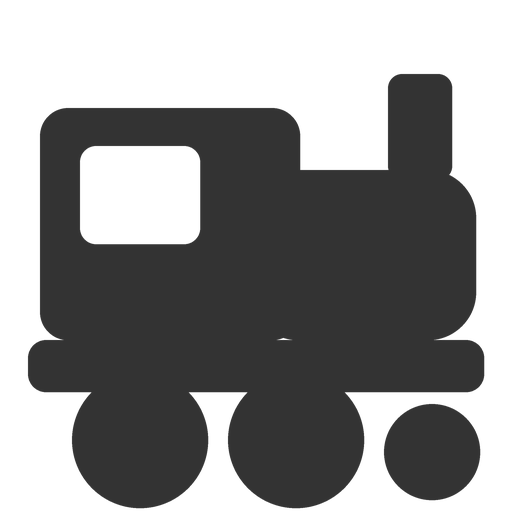
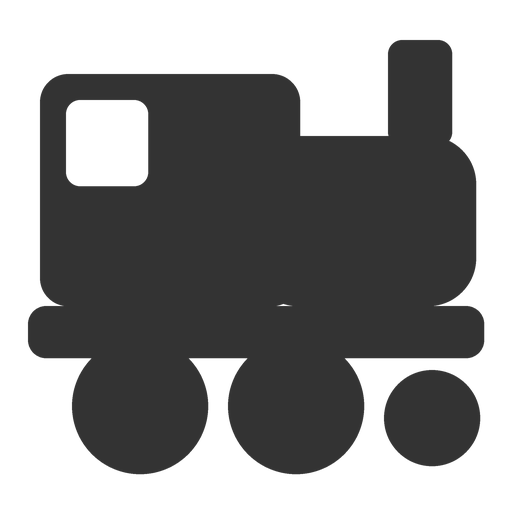
Three of the seven were not actually centred
Checking my own work against Adam's note rather than assuming it was answered: he said the
log was "not symmetrical", and measuring the ink of all seven found the same fault in three
others he had not mentioned.

  play         bounding box sat 140 from the left and 60 from the right
  route        74 above and 34 below, 58 left and 26 right
  locomotive   74 above and 4 below - the wheels were all but touching the canvas edge, so
               beside its neighbours the whole icon read as sitting low

All three are even now, except the play triangle, which is deliberately 110/90: a triangle
carries its weight behind the point, so one whose box is exactly centred reads as leaning
left.  Stats stays 96/56 - those are bars growing off a baseline, and Adam said stats
looks good.

The log was already exactly right, 59 above the first line and 59 below the last.

The cab window also moved hard left and shrank.  It had been overlapping the box the page
number is drawn in, which is a hole under a white digit - the one thing the locomotive was
redrawn to stop.

diff --git a/tools/tab-icons.py b/tools/tab-icons.py
@@ -88,17 +88,20 @@ def s(*values):
 # Bigger, and centre-heavy, because the page number is drawn over the middle of it.
 image, d = canvas()
 
-d.rounded_rectangle(s(40, 108, 300, 340), radius=28 * SS, fill=INK)      # cab
-d.rounded_rectangle(s(250, 170, 476, 340), radius=48 * SS, fill=INK)     # boiler
-d.rounded_rectangle(s(28, 340, 484, 392), radius=18 * SS, fill=INK)      # footplate
-d.rounded_rectangle(s(388, 74, 452, 180), radius=14 * SS, fill=INK)      # chimney
+d.rounded_rectangle(s(40, 74, 300, 306), radius=28 * SS, fill=INK)       # cab
+d.rounded_rectangle(s(250, 136, 476, 306), radius=48 * SS, fill=INK)     # boiler
+d.rounded_rectangle(s(28, 306, 484, 358), radius=18 * SS, fill=INK)      # footplate
+d.rounded_rectangle(s(388, 40, 452, 146), radius=14 * SS, fill=INK)      # chimney
 
-d.ellipse(s(72, 372, 208, 508), fill=INK)                               # driver
-d.ellipse(s(228, 372, 364, 508), fill=INK)                              # driver
-d.ellipse(s(384, 404, 480, 500), fill=INK)                              # pony
+d.ellipse(s(72, 338, 208, 474), fill=INK)                               # driver
+d.ellipse(s(228, 338, 364, 474), fill=INK)                              # driver
+d.ellipse(s(384, 370, 480, 466), fill=INK)                              # pony
 
-# Cab window, punched out - and kept OUT of the middle, where the number goes.
-d.rounded_rectangle(s(80, 146, 200, 244), radius=16 * SS, fill=HOLE)
+# Cab window, punched out - small, and kept hard left of the middle.
+#
+# The number's box reaches in to about x=153 once the icon is 30 pixels wide, and a hole under a white
+# digit is the thing this whole drawing was rearranged to avoid.
+d.rounded_rectangle(s(66, 100, 148, 186), radius=14 * SS, fill=HOLE)
 
 save(image, 'loc')
 
@@ -127,7 +130,9 @@ save(image, 'track')
 # the thing this release deprecated, and what the tab does is START the railway running.
 image, d = canvas()
 
-d.polygon([s(140, 64), s(140, 448), s(452, 256)], fill=INK)
+# Centred on the canvas, then nudged a little right: a triangle's weight sits behind its point, so a
+# play symbol whose bounding box is exactly centred reads as leaning left.
+d.polygon([s(110, 64), s(110, 448), s(422, 256)], fill=INK)
 
 save(image, 'autonomy')
 
@@ -159,20 +164,20 @@ image, d = canvas()
 # carries far less ink than its neighbours and looked faint beside them.
 WIDE = STROKE + 30 * SS
 
-d.line([s(112, 424), s(300, 424)], fill=INK, width=WIDE)
-d.line([s(300, 424), s(300, 168)], fill=INK, width=WIDE)
-d.line([s(300, 168), s(390, 168)], fill=INK, width=WIDE)
+d.line([s(96, 404), s(284, 404)], fill=INK, width=WIDE)
+d.line([s(284, 404), s(284, 148)], fill=INK, width=WIDE)
+d.line([s(284, 148), s(374, 148)], fill=INK, width=WIDE)
 
 # Rounded corners, so the turns do not come out mitred into points.
-for corner in (s(300, 424), s(300, 168)):
+for corner in (s(284, 404), s(284, 148)):
     d.ellipse((corner[0] - WIDE // 2, corner[1] - WIDE // 2,
                corner[0] + WIDE // 2, corner[1] + WIDE // 2), fill=INK)
 
 # Where it starts.
-d.ellipse(s(58, 370, 166, 478), fill=INK)
+d.ellipse(s(42, 350, 150, 458), fill=INK)
 
 # Where it ends.
-d.polygon([s(360, 74), s(360, 262), s(486, 168)], fill=INK)
+d.polygon([s(344, 54), s(344, 242), s(470, 148)], fill=INK)
 
 save(image, 'route')
 
